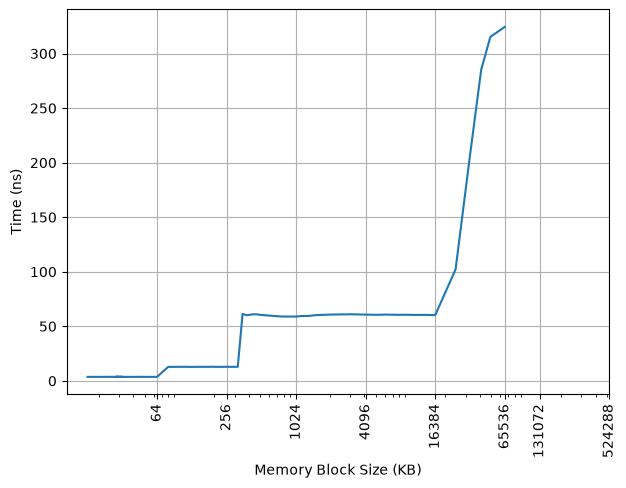
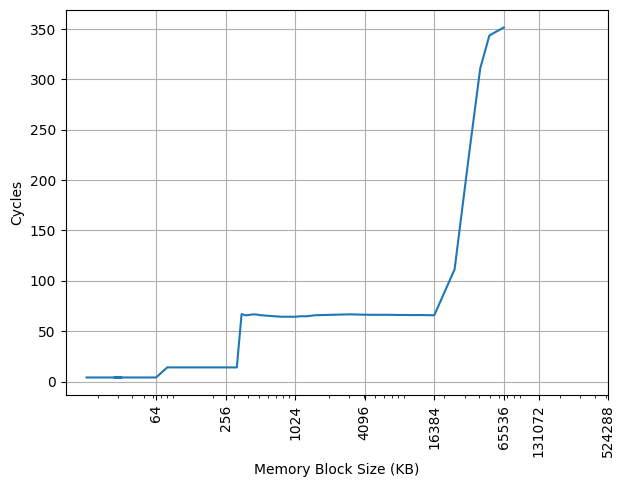
Add more analysis

Changed region(s): [[0.0, 0.0, 1.0, 0.9548], [0.3952, 0.9548, 0.6688, 0.9856]]

diff --git a/docs/blog/posts/hardware/loongson-la664.md b/docs/blog/posts/hardware/loongson-la664.md
@@ -220,13 +220,27 @@ LA664 相比 LA464 有 1.5x 的扩容。
 
 官方信息：每核 64KB，4 路组相联。
 
+使用不同 footprint 的随机的 pointer chasing load，测试性能，得到如下结果：
+
+![](./loongson-la664-memory-latency.png)
+
+可以观察到明显的 64KB 的拐点，命中 L1 DCache 时 load to use latency 是 3 cycle，命中 L2 时增大到了 12 cycle。命中 L1 DCache 时，pointer chasing 的 load to use latency 是 3 cycle；否则是 4 cycle。
+
+容量和 LA464 相同，但延迟有所下降。
+
 ### L1 DTLB
 
 ### L2 TLB
 
 ### L2 Cache
 
-官方信息：每核 256KB Victim Cache，作为私有二级 Cache，16 路组相联。
+使用不同 footprint 的随机的 pointer chasing load，测试性能，得到如下结果：
+
+![](./loongson-la664-memory-latency.png)
+
+命中 L2 时 12 cycle，直到 320KB 才出现新的拐点，此时 320KB 是 L1 DCache 的 64KB 加 L2 Cache 的 256KB 的总容量。
+
+容量和 LA464 相同，但延迟有所下降。
 
 ### L3 Cache
 
